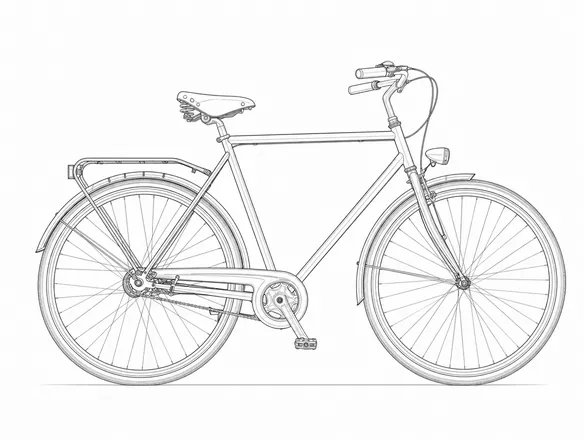
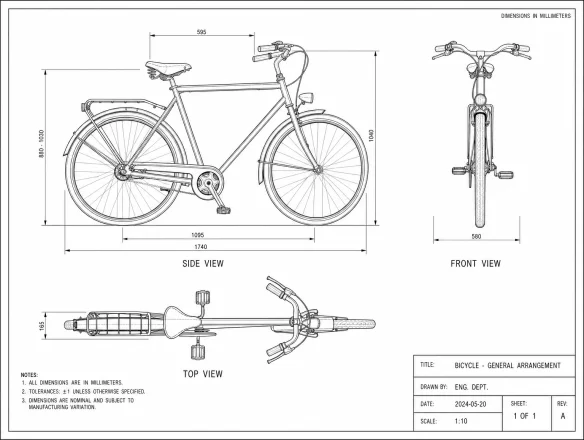
Visual codes: /technicaldrawing visar tre vyer, korten i par står på samma höjd
- /technicaldrawing gav bara en sidovy i linjeteckning, inte de tre vyer som
  beskrivningen lovar. Ny bild (GPT Image 2) med tillägget "show the front,
  side and top views on one engineer's sheet", som också visas på kortet.
- Korten bredvid varandra delar rader via subgrid, som på videosidan, så att
  reglagen börjar och slutar på samma linje även när bara ett kort har en
  ADD-rad. .vc-slot fyller platsen för en ADD-rad eller notering som saknas.

diff --git a/visual-codes/visual-codes.js b/visual-codes/visual-codes.js
@@ -30,7 +30,9 @@ function vcImgAttrs(path) {
 }
 
 /* Build the markup for one code card. Codes without a generated image pair
-   fall back to the neutral placeholder images. */
+   fall back to the neutral placeholder images. .vc-slot stands in for a
+   missing Add line or note — so the CSS subgrid can line the slider up with
+   the card next to it. */
 function vcCardHtml(item) {
   const before = item.before || 'images/placeholder-before.svg';
   const after  = item.after  || 'images/placeholder-after.svg';
@@ -47,7 +49,7 @@ function vcCardHtml(item) {
       <span class="vc-card__hint">${item.addition ? 'Click to copy both' : 'Click to copy'}</span>
     </div>
     <p class="vc-card__desc">${vcEscape(item.description)}</p>
-    ${item.addition ? `<p class="vc-card__addition"><span class="vc-card__addition-label">Add</span> ${vcEscape(item.addition)}</p>` : ''}
+    ${item.addition ? `<p class="vc-card__addition"><span class="vc-card__addition-label">Add</span> ${vcEscape(item.addition)}</p>` : '<div class="vc-slot"></div>'}
     <div class="vc-compare">
       <img ${vcImgAttrs(after)} alt="Result after sending ${code} to ChatGPT" loading="lazy" decoding="async">
       <span class="vc-compare__chip vc-compare__chip--after">${code}</span>
@@ -60,7 +62,7 @@ function vcCardHtml(item) {
         <span class="vc-compare__grip" aria-hidden="true">&#9664;&#9654;</span>
       </button>
     </div>
-    ${item.note ? `<p class="vc-card__note">${vcEscape(item.note)}</p>` : ''}
+    ${item.note ? `<p class="vc-card__note">${vcEscape(item.note)}</p>` : '<div class="vc-slot"></div>'}
   </article>`;
 }
 

diff --git a/visual-codes/visual-codes.css b/visual-codes/visual-codes.css
@@ -282,3 +282,23 @@
 .page-visual-codes .page-hero  { padding-block: var(--space-7) var(--space-5); }
 .page-visual-codes .seo-answer { padding-block: var(--space-5); }
 .page-visual-codes #how-to     { padding-top: var(--space-5); }
+
+/* ───── Side-by-side cards line up ─────
+   Same pattern as the video page: each card takes five rows of the grid
+   (code, description, Add line, slider, note) and shares them with the card
+   next to it via subgrid. An Add line in one card makes that row taller in
+   both, so the two sliders always start and end on the same horizontal lines.
+   The grid's own row gap must be 0 here — a subgrid inherits it between every
+   row inside the card — so the spacing is set on the cards instead.
+   The video page overrides the span with its own six rows (video-codes.css).
+   Browsers without subgrid keep the plain column layout above. */
+@supports (grid-template-rows: subgrid) {
+  .page-visual-codes .vc-grid { row-gap: 0; }
+  .page-visual-codes .vc-card {
+    display: grid;
+    grid-template-rows: subgrid;
+    grid-row: span 5;
+    row-gap: var(--space-3);
+    margin-bottom: var(--space-5);
+  }
+}
